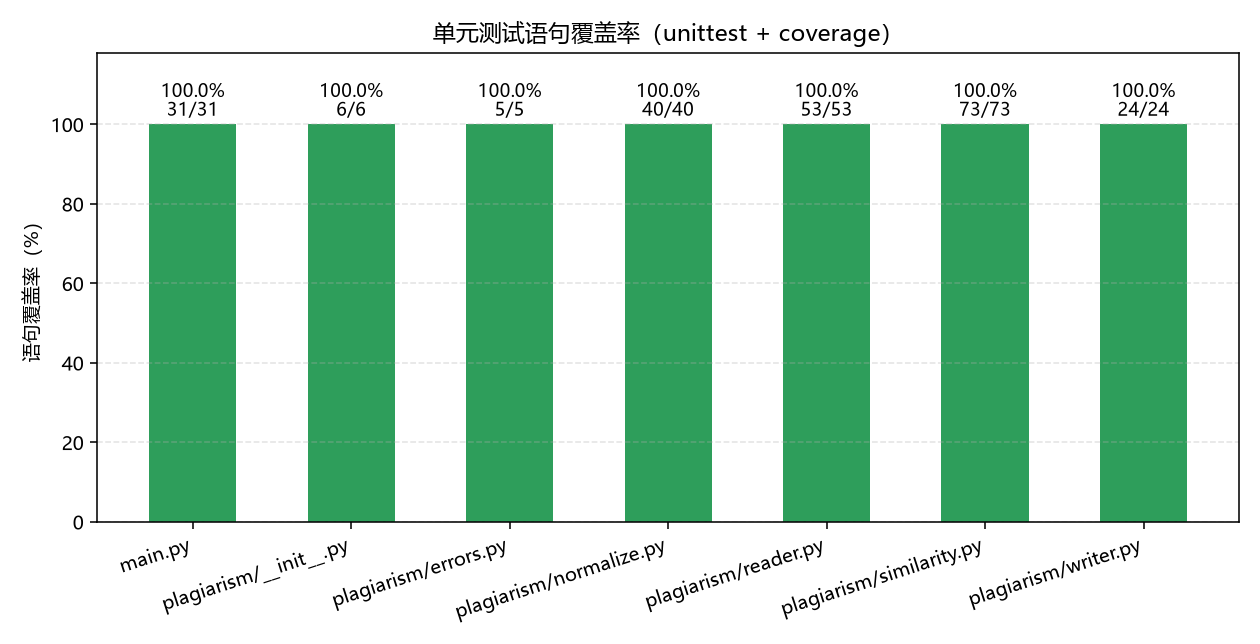
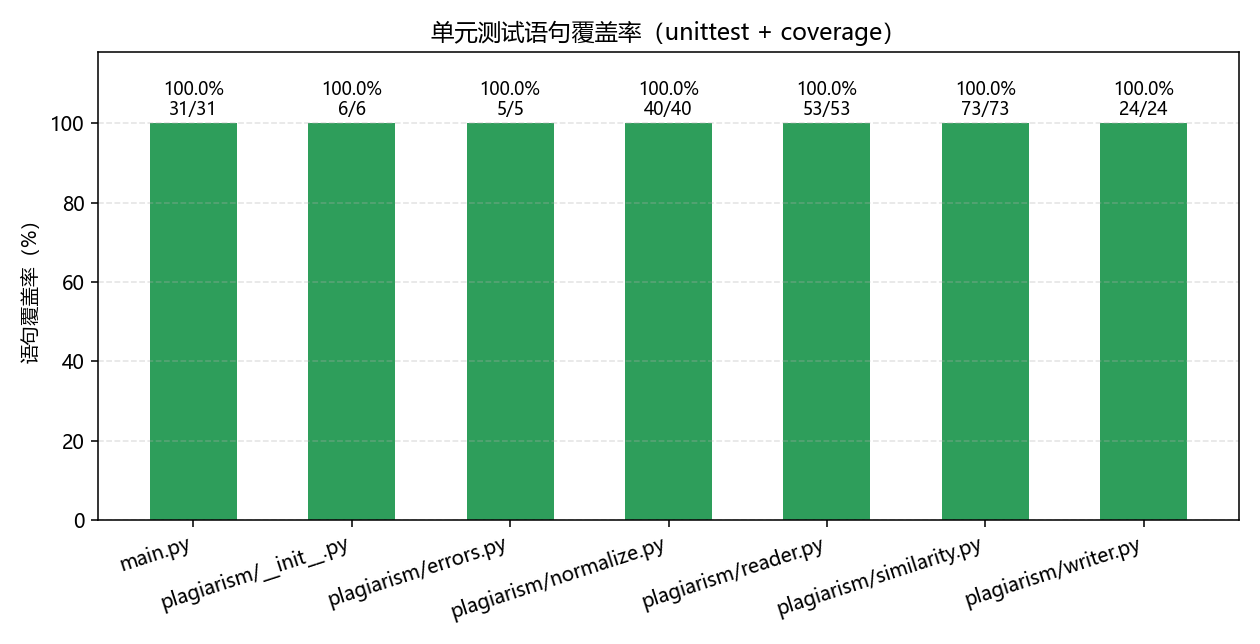
fix: 博客图3 换成自己跑的覆盖率截图，修掉指向微信临时目录的错误路径
用户在 PyCharm/命令行里自己跑了一遍 tools/test_coverage.py，并把命令行的覆盖率
输出截图贴进了博客。但插入方式是"从微信拖图片"，写进 markdown 的是一段指向本机
临时目录的相对路径：

    ../../../../../../许艺琳/Documents/xwechat_files/.../903a9bc6...png

这种路径只在作者本机有效，发到博客园必然是裂图，而且它指向仓库外的私人目录，
一旦被 git 跟踪会污染仓库。

处理：
- 把截图正式收进仓库：docs/coverage_screenshot.png（130 KB）
- 博客 4.5 节改为两张图：
    图3 = coverage_screenshot.png（本机运行输出，覆盖率评分点要的就是这个）
    图4 = coverage_chart.png（工具生成的逐文件柱状图）
- 全文已无指向仓库外的路径

另外，coverage_chart.png 是用户本机（Python 3.8 + matplotlib 3.7.5）重跑生成的，
与之前用 3.13 生成的那张略有差异（中文字体渲染不同），内容一致，一并提交。

验证：博客引用的 4 张图在 docs/ 下全部存在；73 个用例通过。

diff --git a/3224004083/docs/第一次个人编程作业-博客园随笔.md b/3224004083/docs/第一次个人编程作业-博客园随笔.md
@@ -445,7 +445,9 @@ TOTAL                        232      0   100%
 总体语句覆盖率：100.0%
 ```
 
-![图3：单元测试语句覆盖率](coverage_chart.png)
+![图3：本机运行 coverage 的覆盖率输出（73 个用例、232 条语句、100%）](coverage_screenshot.png)
+
+![图4：逐文件语句覆盖率柱状图（unittest + coverage）](coverage_chart.png)
 
 **73 个用例全部通过，232 条语句 0 条未覆盖，语句覆盖率 100%**。其中
 `if __name__ == "__main__"` 这类进程入口按惯例用 `# pragma: no cover` 排除，改由
